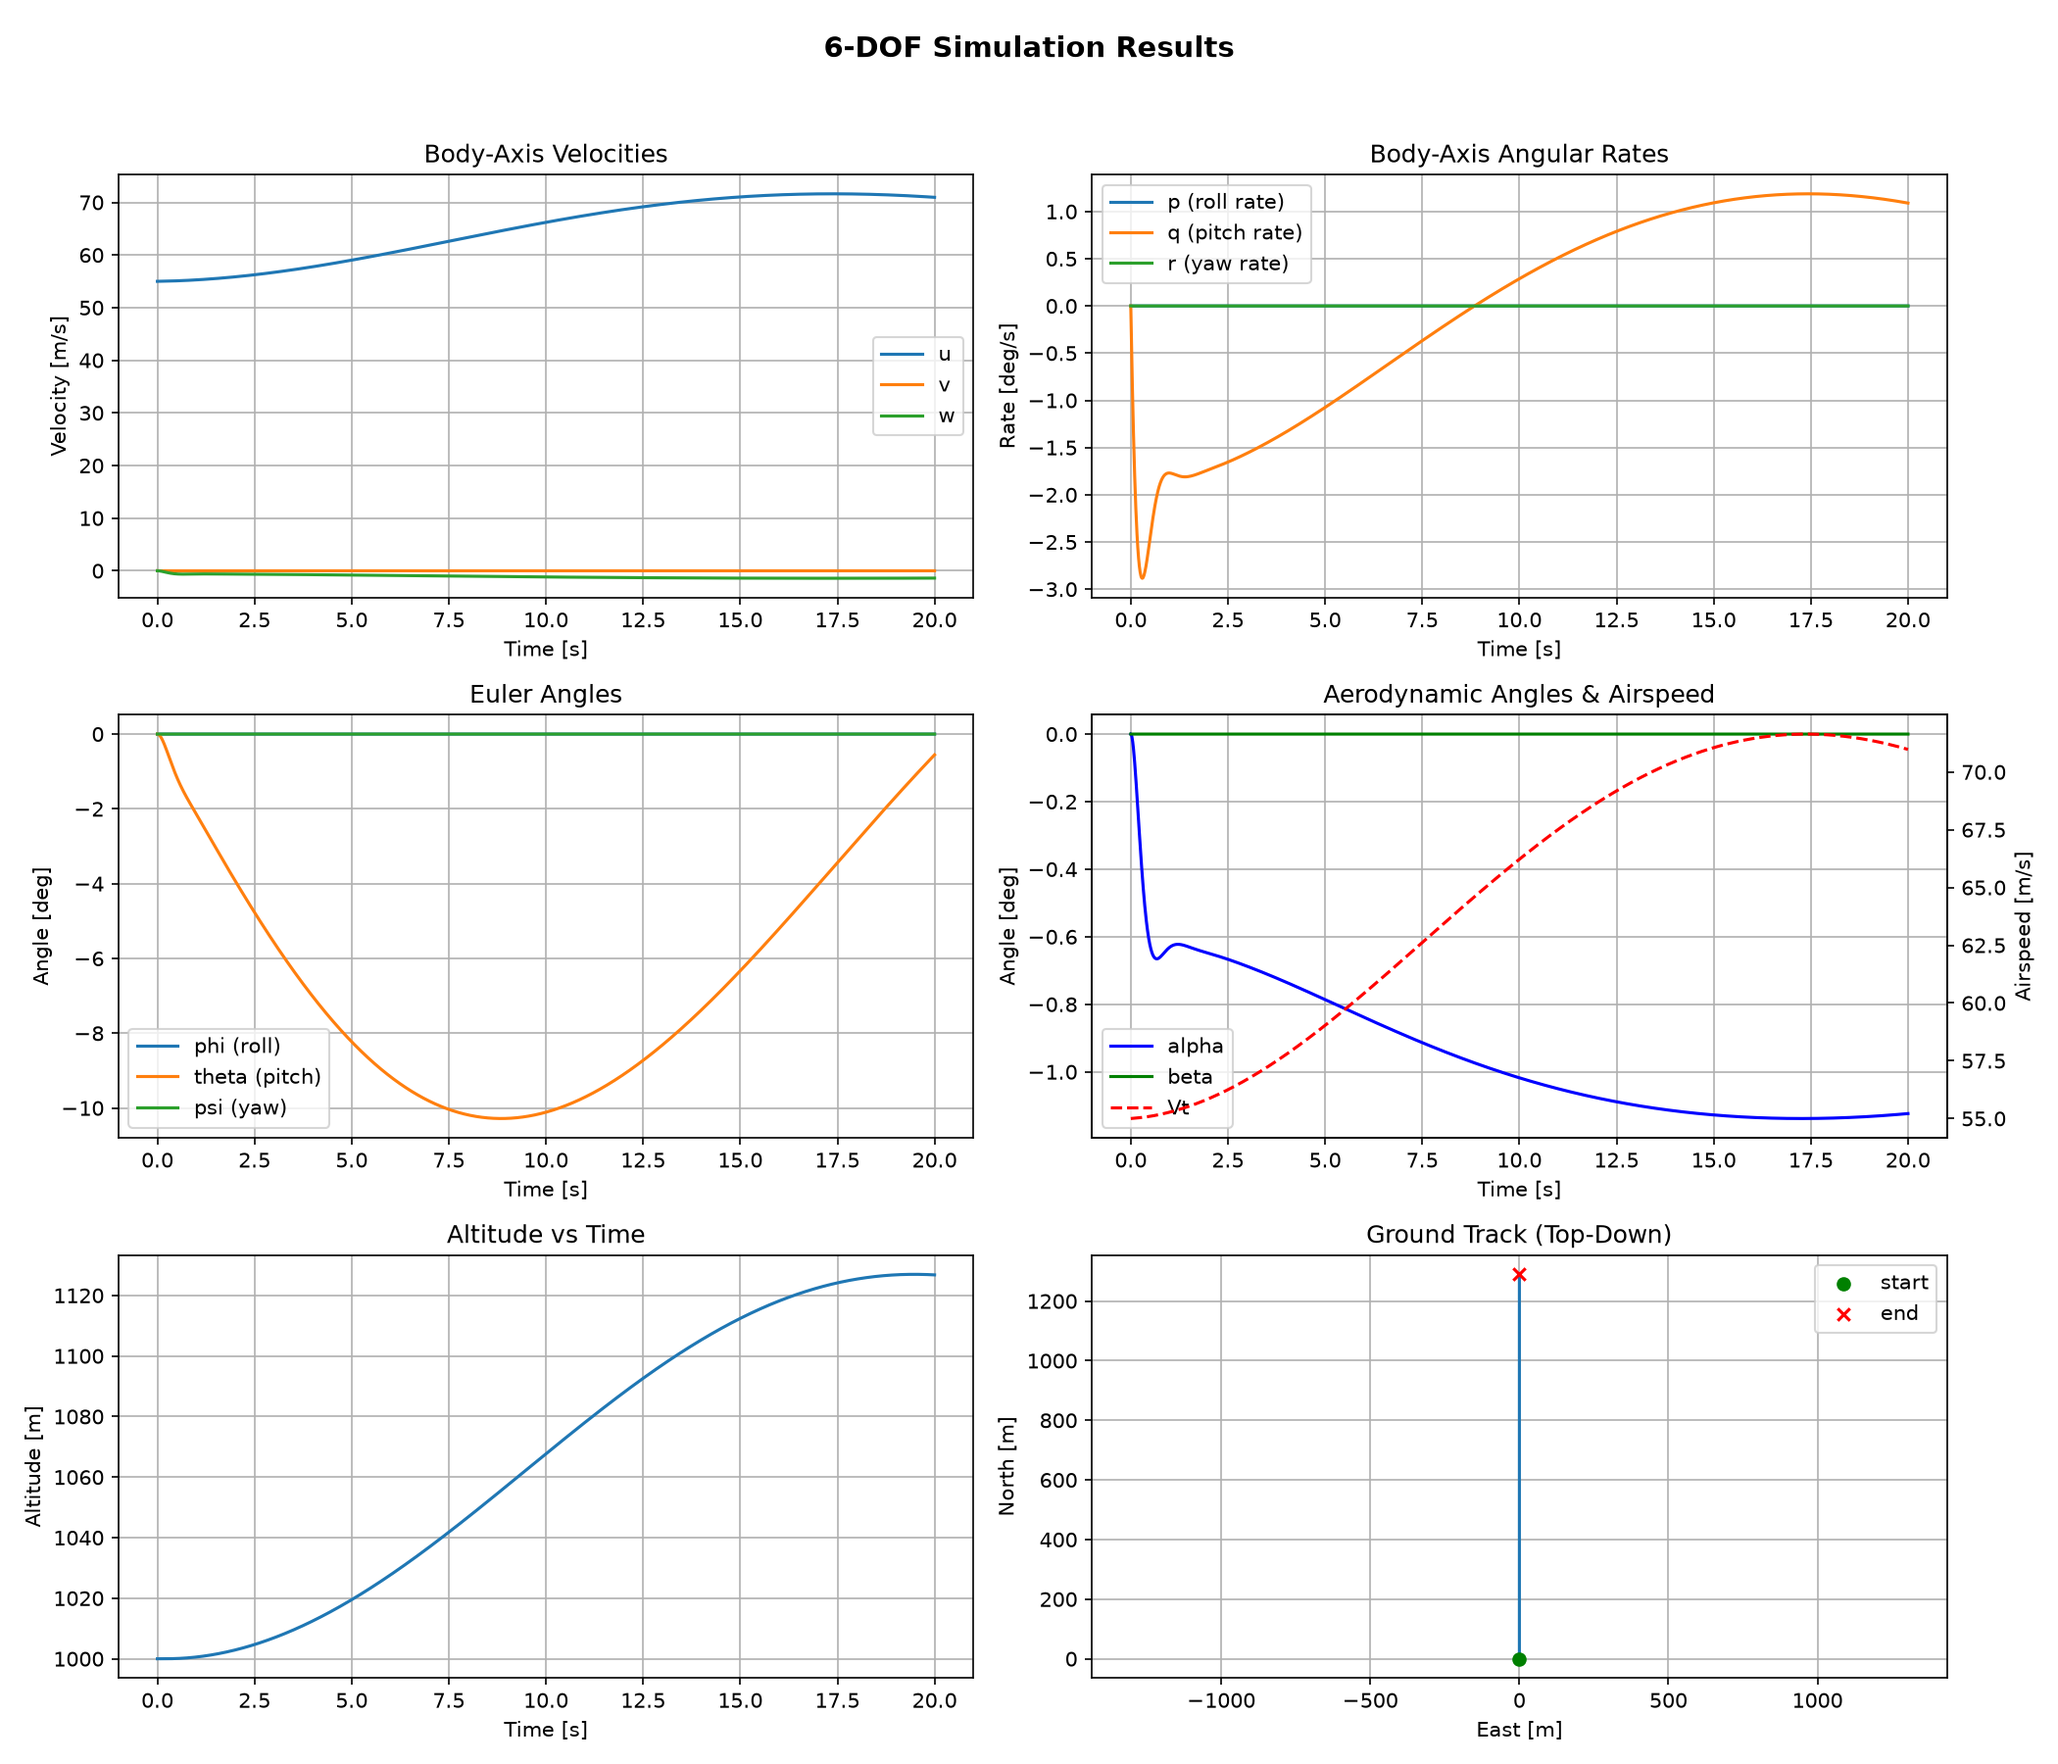
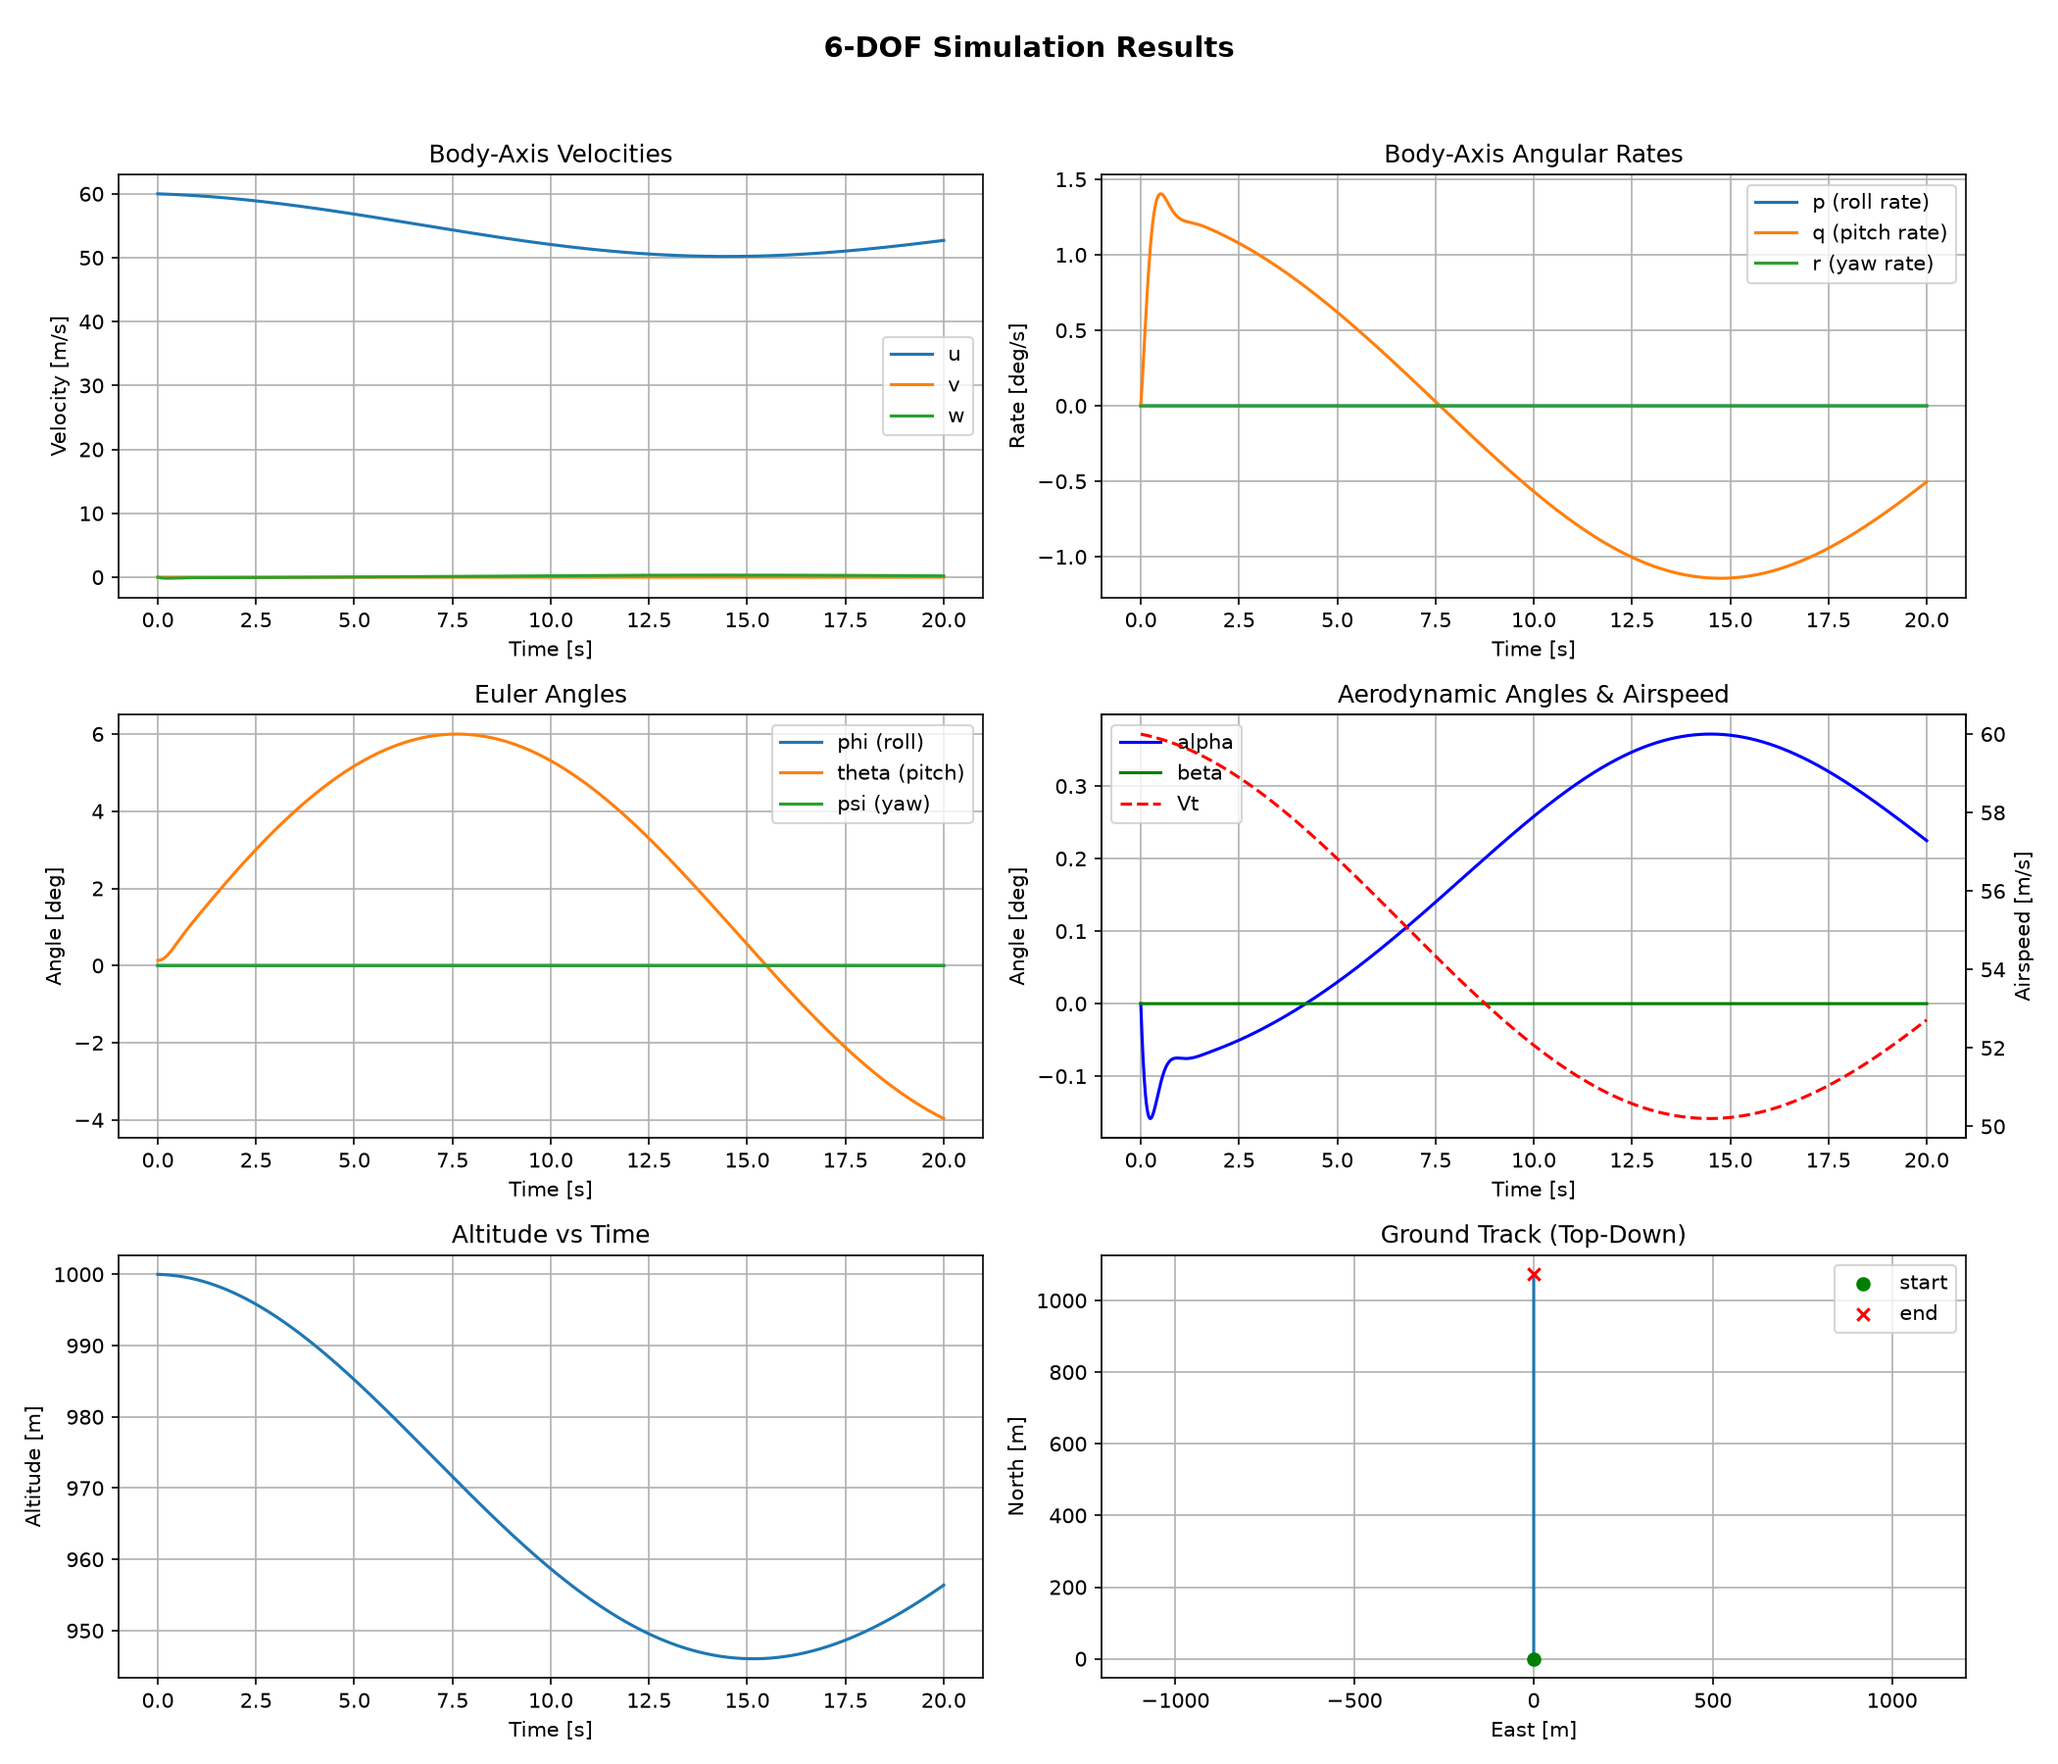
updated Xo using trim values

diff --git a/main.py b/main.py
@@ -22,7 +22,7 @@ flight_dynamics = FlightDynamics(
 )
 
 x0 = np.array([
-    55.0,       # u
+    60.0,       # u
     0.0,        # v
     0.0,        # w
 
@@ -31,7 +31,7 @@ x0 = np.array([
     0.0,        # r
 
     0.0,        # phi
-    0.0,        # theta
+    np.radians(0.1346),        # theta
     0.0,        # psi
 
     0.0,        # PN
@@ -41,10 +41,10 @@ x0 = np.array([
 ], dtype=float)
 
 controls = np.array([
-    0.0,        # delta_e
+    np.radians(-0.7651),        # delta_e
     0.0,        # delta_a
     0.0,        # delta_r
-    0.65         # delta_t
+    0.5482         # delta_t
 ], dtype=float)
 
 integrator = RK4Integrator(
